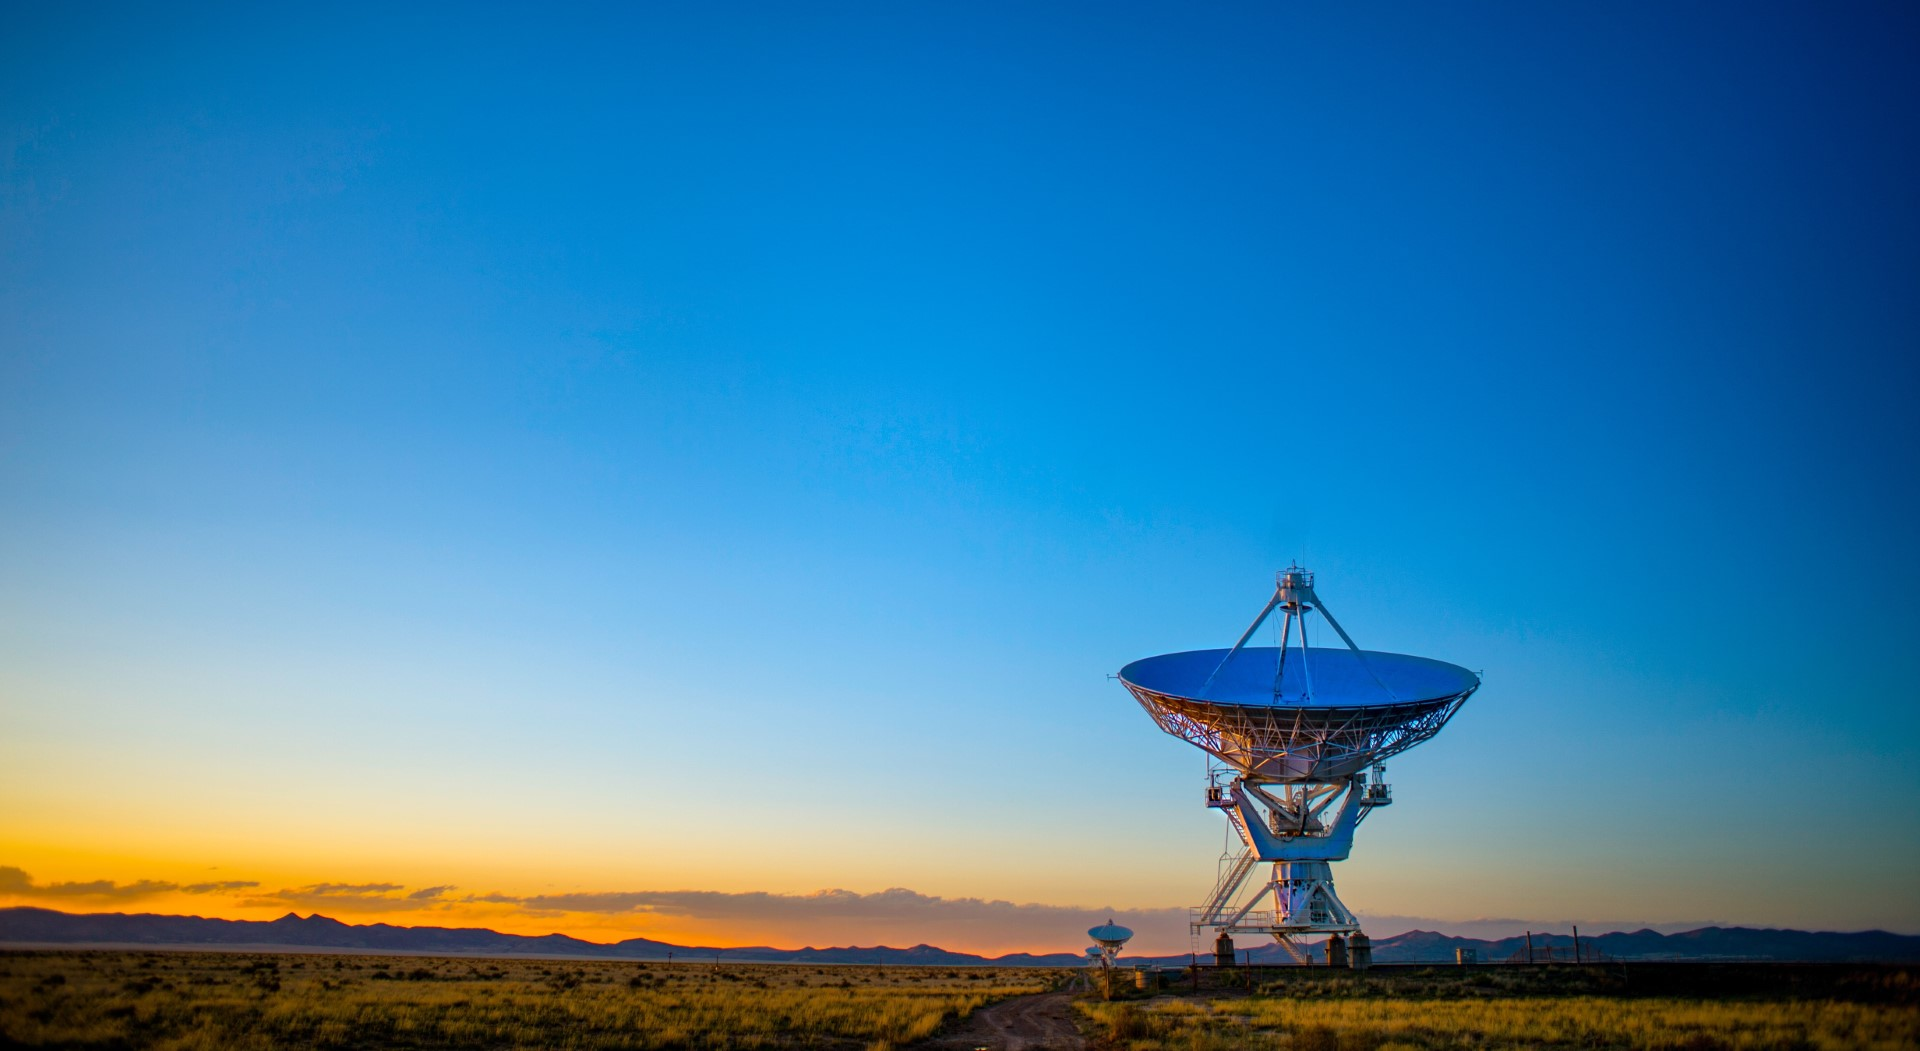
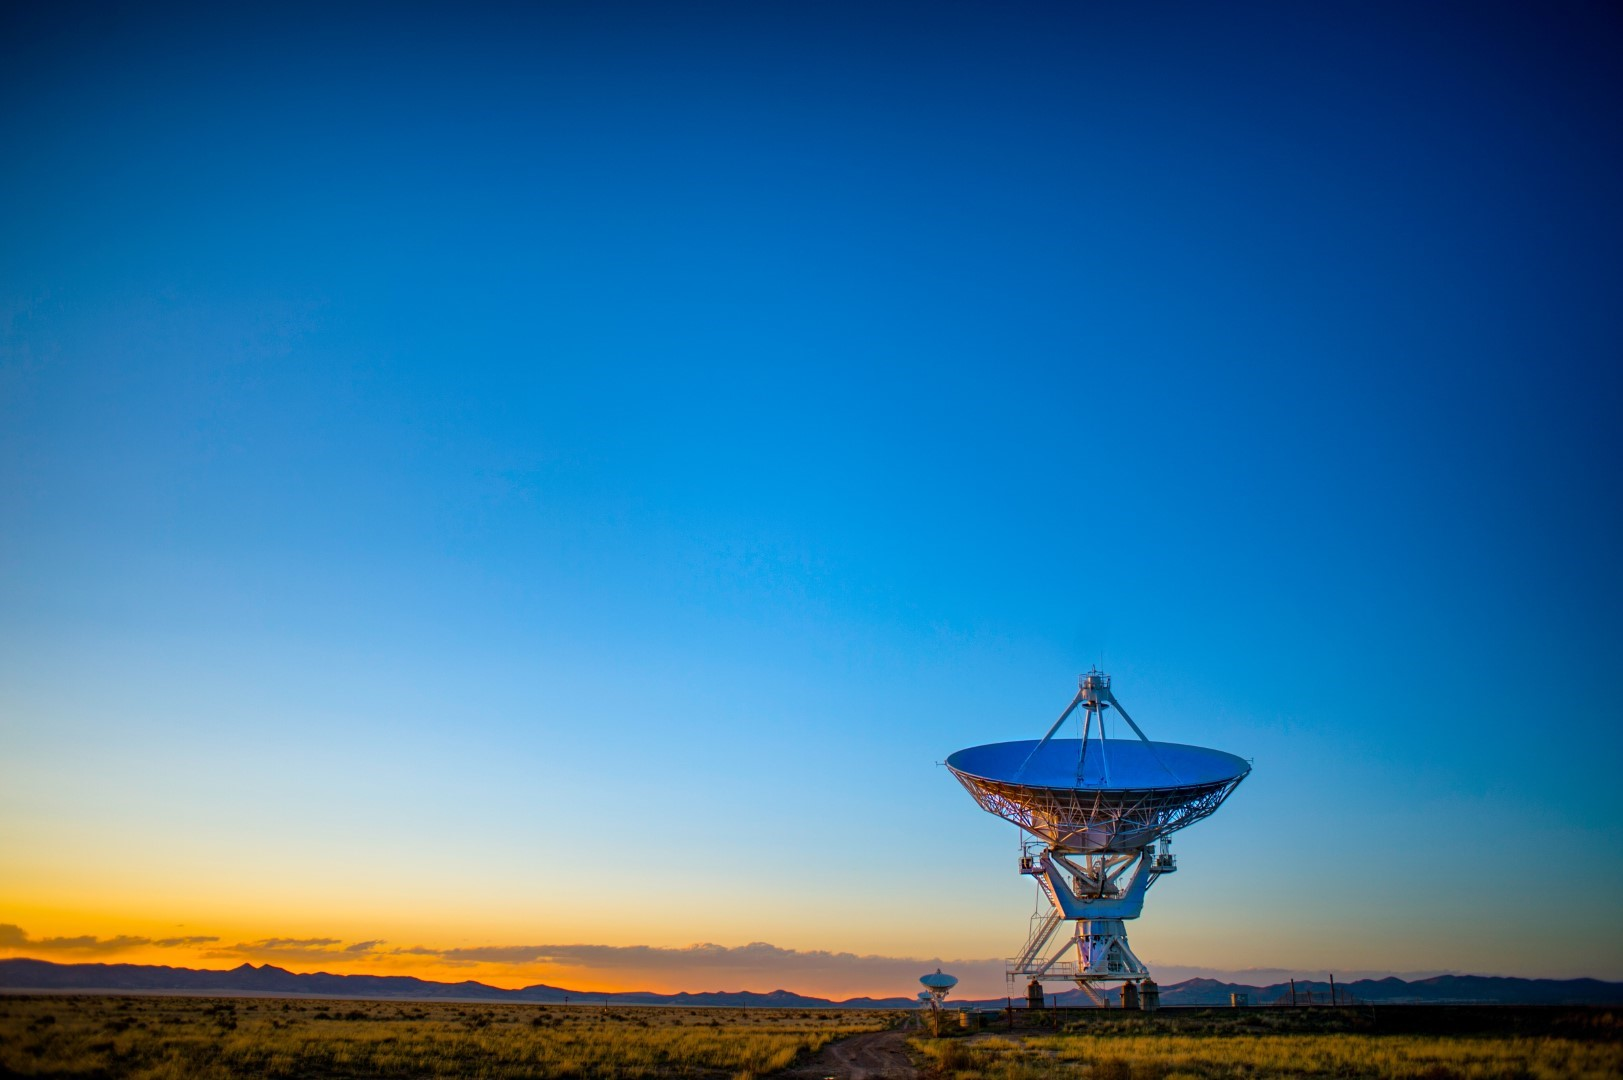
Adjusted background image

diff --git a/style.css b/style.css
@@ -6,6 +6,7 @@ body{
     color: #EDB654ff;
     background-image: url("/images/background.jpg");
     background-size:cover;
+    background-position:bottom;
     text-align: center;
     padding: 50px 0px 500px 0px ;
 }
@@ -28,9 +29,10 @@ body{
     
 }
 .tandc{
-    font-size: 50px;
+    font-size: 40px;
     text-align: center;
     color:#569DCDff;
+    
 
 }
 
